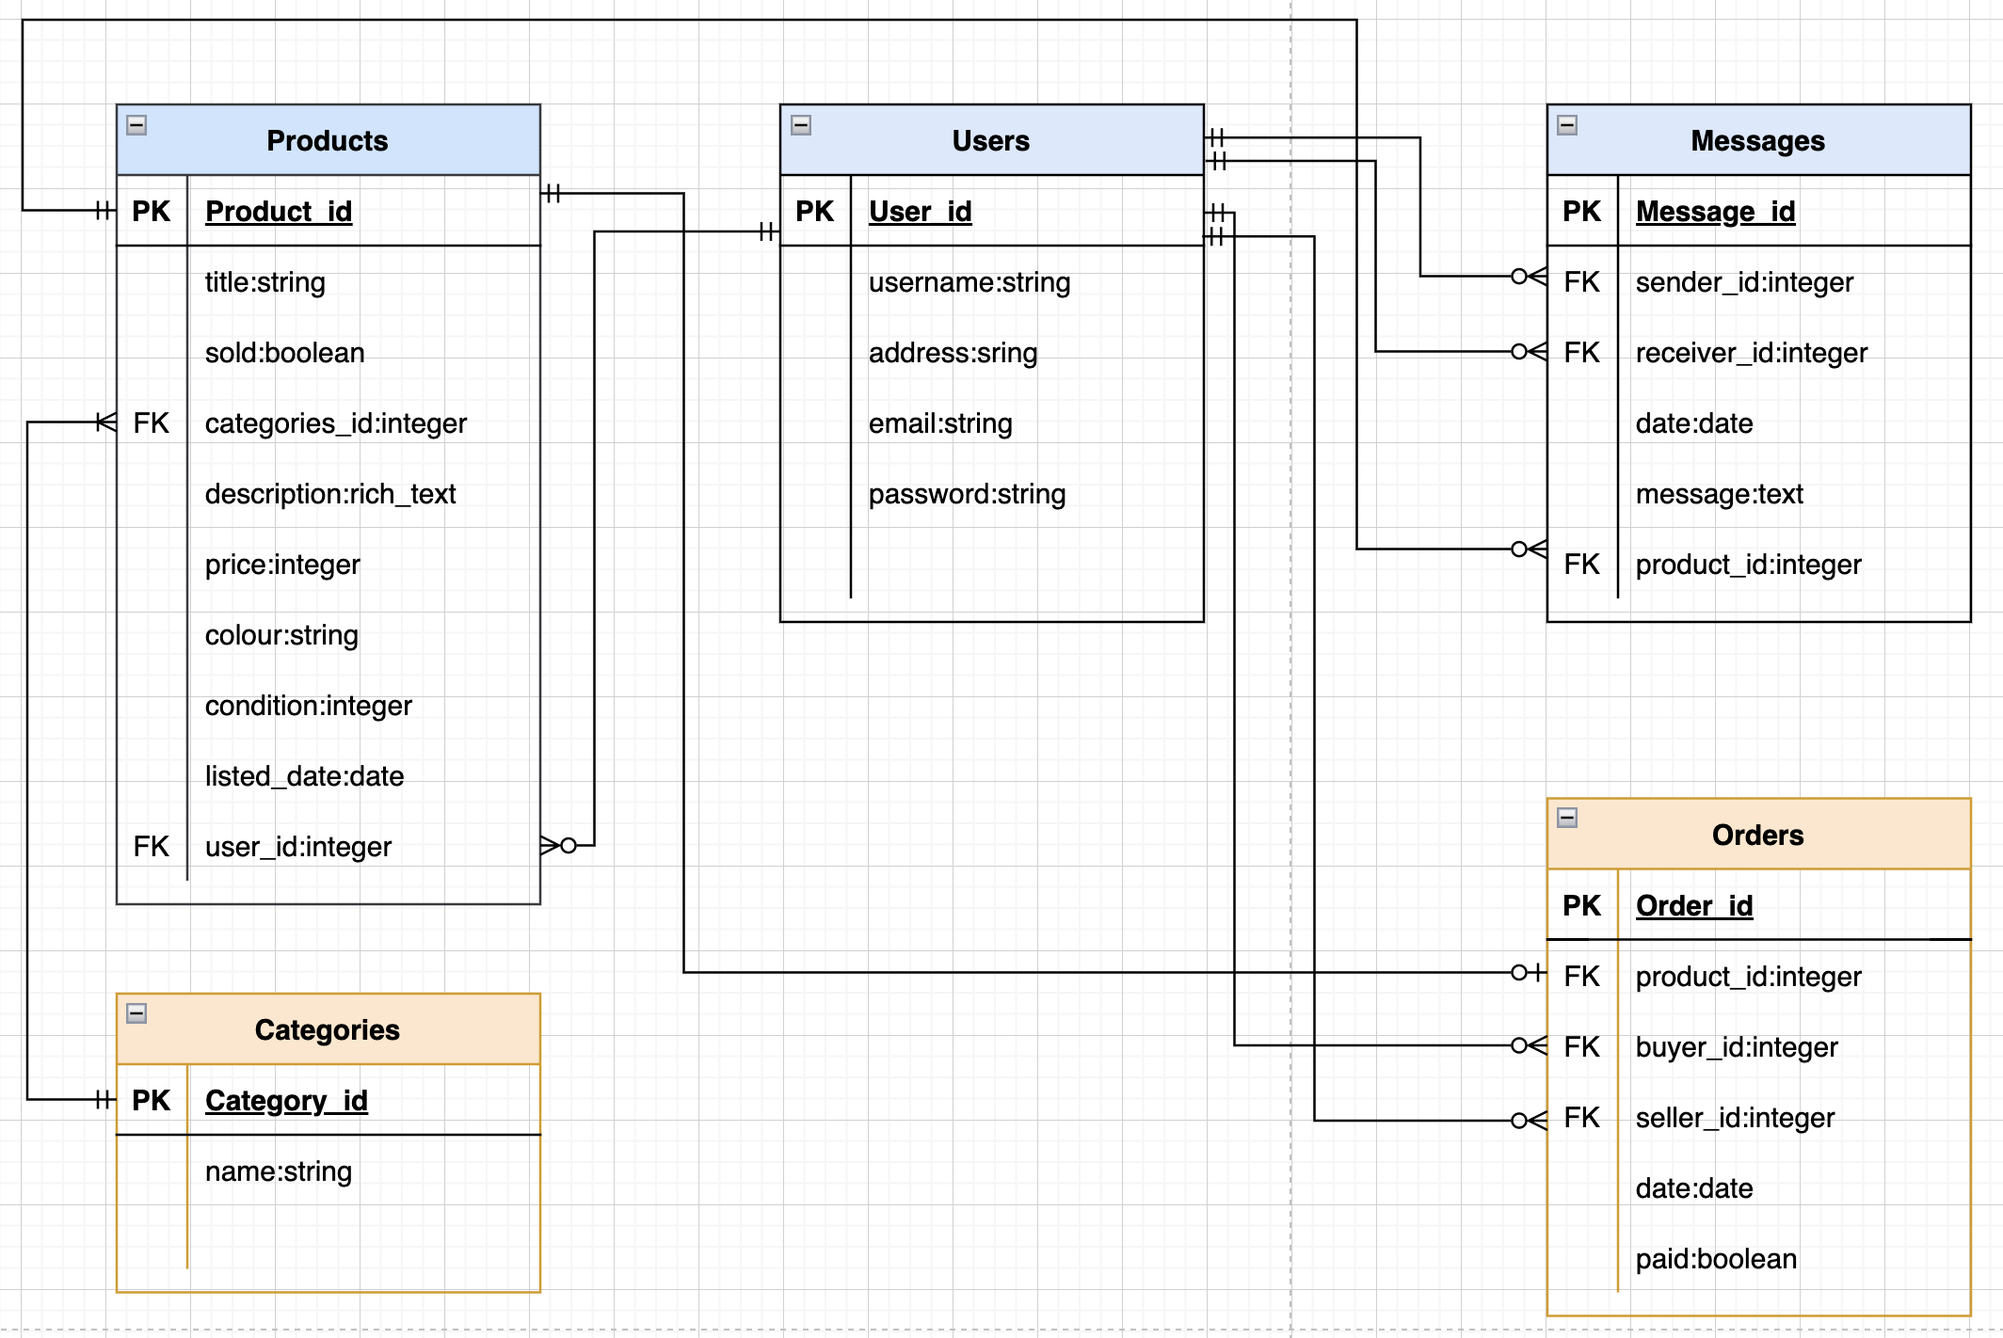
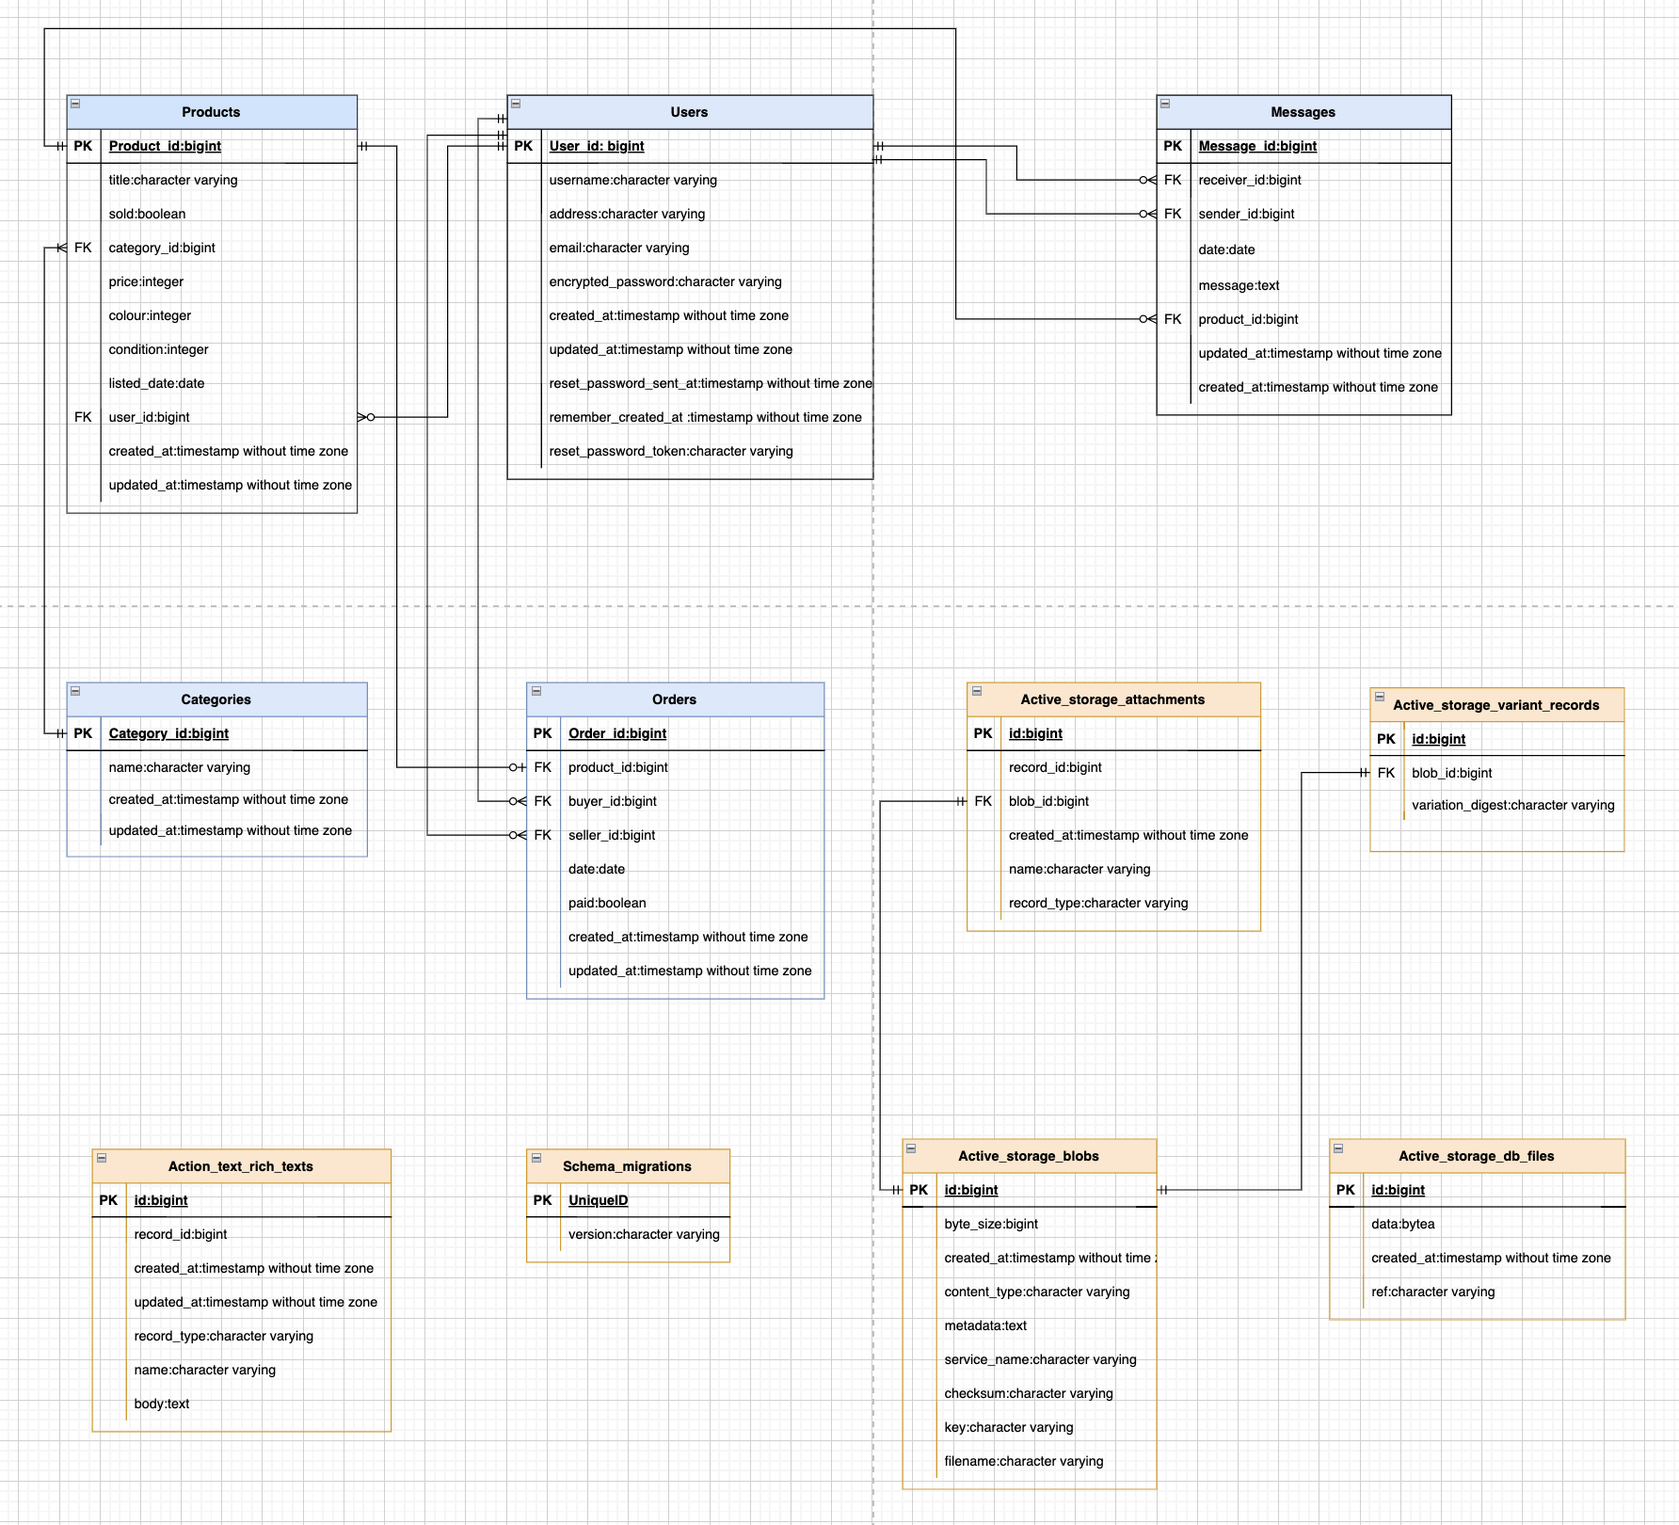
updated README

diff --git a/README.md b/README.md
@@ -1,8 +1,12 @@
 # Marketplace Project - Su Zhang
 
+## Explain how the MVC architecture and concept of inheritance impact the structure of your application and the entities within it
+(Precisely explains and shows understanding of how the MVC architecture and concept of inheritance impact the structure of your application and the entities within it)
+
+
 ## R7 Identification of the problem you are trying to solve by building this particular marketplace app.
 
-Society values the latest trends, the most fashionable clothing and the most stylish looks, and we rarely think about the environmental impact of our shopping habits. The desire to supply the latest fashion trends in abundance at low prices has led to the fashion industry becoming one of the world's major polluting industries. The industry is responsible for nearly 10% of greenhouse gas emissions, mainly due to the overproduction of clothing to meet consumer demand for "fast fashion". Things are cheap and throw away, with only about 20% of clothing Recycled or reused, while vast quantities of fashion products end up in landfills or incinerated, creating huge carbon emissions. This call for cheap clothing to keep up with changing trends has devastating effects on our climate.
+Society values the latest trends, the most fashionable clothing and the most stylish looks, and we rarely think about the environmental impact of our shopping habits. The desire to supply the latest fashion trends in abundance at low prices has led to the fashion industry becoming one of the world's major polluting industries. The industry is responsible for nearly 10% of greenhouse gas emissions, mainly due to the overproduction of clothing to meet consumer demand for "fast fashion". Things are cheap and throwaway, with only about 20% of clothing Recycled or reused, while vast quantities of fashion products end up in landfills or incinerated, creating huge carbon emissions. This call for cheap clothing to keep up with changing trends has devastating effects on our climate.
 
 ### References:
 
@@ -12,7 +16,7 @@ Society values the latest trends, the most fashionable clothing and the most sty
 
 ## R8 Why is it a problem that needs solving?
 
-Clothes have traditionally been made from materials derived from plants and animals, such as cotton, linen and leather, but today's clothing is increasingly likely to be made from materials derived from fossil fuel crude oil to make nylon and polyester and more synthetic fibers. These materials do not biodegrade, which means significant damage to the environment and devastating effects on human health and wildlife.
+Clothes have traditionally been made from materials derived from plants and animals, such as cotton, linen and leather, but today's clothing is increasingly likely to be made from materials derived from fossil fuel crude oil to make nylon and polyester and more synthetic fibres. These materials do not biodegrade, which means significant damage to the environment and devastating effects on human health and wildlife.
 At the same time, the high water consumption in the production of clothing, chemical pollution from dyeing and processing, and the disposal of large quantities of unsold or discarded clothing through incineration or landfilling can all cause serious harm to the environment. Therefore, in order to make our world a better place, this should be given enough attention.
 
 ### References:
@@ -38,19 +42,29 @@ At the same time, the high water consumption in the production of clothing, chem
 
 ### Purpose
 
-As the problem of global warming worsens, and the popularity of fast fashion brands. Little attention has been paid to the impact of the shopping habits that people develop to follow trends on our living environment. Therefore, I designed this two-sided marketplace, which is based on the protection of the environment to encourage everyone to recycle their own effective resources, sell or buy their own idle items, and develop shopping habits that are not wasteful, so as to protect our only and beautiful earth.
+As the problem of global warming worsens, and the popularity of fast fashion brands. Little attention has been paid to the impact of the shopping habits that people develop to follow trends in our living environment. Therefore, I designed this two-sided marketplace, which is based on the protection of the environment to encourage everyone to recycle their own effective resources, sell or buy their own old items, and develop shopping habits that are not wasteful, so as to protect our only and beautiful earth.
 
 ### Functionality / features
 
-Hamburger menu
+**Hamburger menu:** This website is responsive, which means it shows hamburger menu when the screen size is under 1200px instead of showing navbar.
 
-Searching bar
+**My orders:** This page will list all the products I have ordered, users will be able to view all their orders on this page.
 
-Messaging 
+**My products:** This page will list all of the products that I have posted. it is easy for users manage their products.
 
-Image uploading
+**Searching bar:** The search bar located on the top of the products and my products page allows users to search their interested products and also narrow down the range of searching.
 
-Rich text
+**Messaging:** As sellers, they will be able to check their messages from message section where located on the top of the website, which is the part of the navbar. as buyers, they will be able to contact the seller through message section, or click on the contact button where is in the product page.
+
+**Image uploading:** Users will be able to upload the image of the product which they want to sell. The images are stored in the postgres database. 
+
+**Edit and Add a product:** Users will be able to edit, delete, add new products to their website. 
+
+**Rich text:** Rich Text is a field type that enables users to create rich text content, It provides common text formatting options such as paragraphs, adding files, etc.
+
+**Authentication:** Divise 
+
+**Authorization:** Users have restrictions on what they can see and edit. 
 
 
 ### Sitemap
@@ -91,17 +105,18 @@ Reply message Page
 
 ### Target audience
 
-The target audience is all people who pay attention to and value global warming and environmental protection, as well as vintage lovers. In this vintage market, users can sell their idle items as sellers, and can also buy their favorite vintage items from other sellers. On this platform, people’s purchasing habit of recycling not only facilitates users to dispose of their restricted items, but also reduces the environmental pollution caused by a large amount of carbon emissions when incinerating discarded items.
+The target audience is all people who pay attention to and value global warming and environmental protection, as well as vintage lovers. In this vintage market app, users can sell their old items as sellers, and can also buy their favourite vintage items from other sellers. On this platform, people’s purchasing habit of recycling not only facilitates users to dispose of their old items but also reduces the environmental pollution caused by high carbon emissions when incinerating discarded items.
 
 ### Tech stack (e.g. html, css, deployment platform, etc)
-
+(discrib!!!!!)
 - Visual Studio Code
 - Ruby on Rails
 - Ruby
-- Postgresql- database
+- Postgresql- database in development and production
 - draw.io - Drawing ERD 
 - XMind - Sitemap
-- Heroku - Web hosting
+<!-- - Bootstrap - css framework  -->
+- Heroku - Website hosting
 - HTML - Layout
 - CSS -styling
 - Balsamiq Wireframes
@@ -117,22 +132,22 @@ User's perspective:
 
 Buyer's perspective:
 
-- As a buyer, I want to be able to have a search bar to search for related items, so that I can find items I'm interested in faster.
-- As a buyer, I want to have a section that shows all the items I've purchased，so that I can easily see all the information about the items I've purchased.
-- As a buyer, I want to have a Contact Seller section where I can message the seller, so that I can easily inquire about the specifics of the item I want to buy.
-- As a buyer, I want to know some terms that describe the condition of used goods without specific definitions, so that I can imagine the condition of the goods based on the conditions described on the website, in case I buy a dishonest product.
-- As a buyer, I want to have the function of purchasing goods and remind me that the purchase has been successful after purchase, so that I can ensure that I have successfully purchased the goods I like.
-- As a buyer, I want to be able to know which items have been sold out, so that I can make sure I don't keep buying that item.
+- As a buyer, I want to be able to search for related items, so that I can find items I'm interested in faster.
+- As a buyer, I want to see a list of the items I've purchased，so that I can easily see all the information about the items I've purchased.
+- As a buyer, I want to send messages to sellers, so that I can easily inquire about the specifics of the item I want to buy.
+- As a buyer, I want to understand the terms that describe the condition of used goods, so that I can know the condition of the goods before I purchase something.
+- As a buyer, I want to be able to purchase goods and confirm that the purchase has been successful, so that I can obtain the goods I like and be confident the purchase was successful.
+- As a buyer, I want to know which items are sold out, so that I don't try to buy them.
 - As a buyer, I want to see all product listings without registering or logging in, so that I can be sure if this is the type of site I'm looking for.
 
 Seller's perspective:
 
 - As a seller, I want to have a section that displays all of my products listing, so that I can easily see how all of my listings are selling.
-- As a seller, I want to have a section where I can view and reply messages, so that I can easily view all the inquiries sent to me by buyers and reply in a timely manner.
-- As a seller, I want the picture and link of the corresponding product can be attached to the buyer's inquiry message at the same time, so that I can clearly know which product the buyer is inquiring about and quickly find the information of the product.
+- As a seller, I want to have a section where I can view and reply to messages, so that I can easily view all the inquiries sent to me by buyers and reply in a timely manner.
+- As a seller, I want the picture and link of the corresponding product can be attached to the buyer's inquiry message, so that I can clearly know which product the buyer is inquiring about and quickly find the information for the product.
 - As a seller, I want to have an obvious and convenient button to add new items, so that I can add items that I want to sell at any time.
 - As a seller, I want to be able to edit my products, so that I can update or delete the products I list at any time, and also buyers can get the latest product information.
-- As a seller, I want to be able to upload images, describe items condition and information, so that buyer can clearly know the detailed condition of the product.
+- As a seller, I want to be able to upload images and describe items' conditions, so that buyers can clearly know the detailed condition of the product.
 
 ---
 
@@ -182,14 +197,30 @@ Reply message Page
 
 ## R16 Detail any third party services that your app will use
 
-Heroku (Web hosting service) - Heroku was used to host my website. It is a Platform as a Service (PaaS) and was chosen because it allows for both front end and back end to be hosted on their platform.
+Heroku (Web hosting service) - Heroku is a Platform as a Service (PaaS) which provides a set of capabilities that allows me to deploy, manage and host my website. I was chosen because it no need to understand server configuration, network management, or tune the latest version of the database.
 
 Github
-Using Github to manage service for git source control repositories, and also to trigger automatic deployment through Heroku.
+I was using Github to host my source code and keep track of the various changes, it makes esaier to reviewing, improving, and delivering new features and  making a better workflow. And also to deploy code through Github to Heroku.
+
+Devise: I used Devise gem to generated a User model in rails as an authentication system. Because, Devise take care of all the controllers necessary for User, like log in and out, email, password for registration. And also allows me to add username section which is very flexible and easy to setup. 
+
 ---
 
 ## R17 Describe your projects models in terms of the relationships (active record associations) they have with each other
 
+has many 
+belongs to
+A user if set up under the role of a 'restaurant' is able to create many restaurants (has_many). This is to cover scenarios where one user login has multiple relationships.
+
+A restaurant can only belong to one user (belongs_to). This is to ensure that a user who did not create the resturant cannot edit or delete a restaurant created by another user. All restaurants can view other restaurants listed on the app, in order to be able to view what customers can view on the index.
+
+A restaurant can upload an image attached to the listing.
+
+A user can have many sign in's as a user can check into many restaurants on the app (has_many). This enables the user to view a list of all their CheckIn's (i.e. where they have been) on the app. The restaurant the user CheckedIn can be viewed on the index page.
+
+A user can provide many feedbacks to the restaurant (has_many). Each feedback is linked to the user ID and restaurant ID ensuring that the correct customer and restaurant user can view the app.
+
+A user can upload an image attached to the feedback. This includes scenarios where they want to include a picture of the food, reciept, etc.
 ---
 
 ## R18 Discuss the database relations to be implemented in your application
@@ -199,7 +230,7 @@ Using Github to manage service for git source control repositories, and also to 
 
 ## R19 Provide your database schema design
 
-Rich texts
+Active text rich text table
 
 ```rb
   create_table "action_text_rich_texts", force: :cascade do |t|
@@ -213,7 +244,7 @@ Rich texts
   end
 ```
 
-Active storage attachments
+Active storage attachments table
 
 ```rb
 create_table "active_storage_attachments", force: :cascade do |t|
@@ -227,7 +258,7 @@ create_table "active_storage_attachments", force: :cascade do |t|
   end
 ```
 
-Active storage blobs
+Active storage blobs table
 
 ```rb
  create_table "active_storage_blobs", force: :cascade do |t|
@@ -243,7 +274,7 @@ Active storage blobs
   end
 ```
 
-Active storage database files
+Active storage database files (used for image uploading)
 
 ```rb
 create_table "active_storage_db_files", force: :cascade do |t|
@@ -254,7 +285,7 @@ create_table "active_storage_db_files", force: :cascade do |t|
   end
 ```
 
-Active storage records
+Active storage variant records (for edits to images)
 
 ```rb
  create_table "active_storage_variant_records", force: :cascade do |t|
@@ -348,7 +379,7 @@ create_table "users", force: :cascade do |t|
 Foreign Keys
 
 ```rb
-add_foreign_key "active_storage_attachments", "active_storage_blobs", column: "blob_id"
+  add_foreign_key "active_storage_attachments", "active_storage_blobs", column: "blob_id"
   add_foreign_key "active_storage_variant_records", "active_storage_blobs", column: "blob_id"
   add_foreign_key "messages", "products"
   add_foreign_key "messages", "users", column: "receiver_id"
@@ -364,27 +395,29 @@ add_foreign_key "active_storage_attachments", "active_storage_blobs", column: "b
 
 ## R20 Describe the way tasks are allocated and tracked in your project
 
-I was using Trello board to allocate and track my project, I have 5 columns to consider, they are Optional features, to do, doing, today and done. 
+The tool I used to manage my project was Trello. Trello is a free visual organisation tool that uses a Kanban workflow style to track tasks and manage workflows.
 
+I used a Trello board to allocate and track my project, the board was arranged in 5 columns, they were:
 
-Optional features:
-The Optional features stores the functions I want to implement, but it is not mandatory requirement. 
+- Optional features - records the tasks I want to implement, but are not mandatory requirements
+- To do - records the tasks that must be done are in the To do list column
+- Doing - records the tasks that I am doing, but are not necessarily being done today
+- Today - records the tasks that have to be completed today
+- Done - records completed tasks, to make sure I've done all the tasks
 
-To do
-The tasks that must be done will be in the To do list, selecting some tasks I want to complete today or the tasks that will be completed move to the Today and Doing lists. Once I completed all the tasks from this column, I can move another ticket from Optional features to this column.
+### Task properties
 
-Doing
-The doing list will store the tasks that I will do, but it doesn't have to be done today, if the list in Today list is empty, I can select the task from this list and move it to the today list.
-
-Today
-The today table stores the tasks have to be completed today. Every day，I select a few tasks from the Doing list to this list.
-
-Done
-Done list stores completed tasks，to make sure I've done all the tasks.
-
-And also, each ticket has a label and story points. I created 7 labels to organise each ticket, they are presentation, database, features, blocked, slides, documentation. The story points categorize difficulty levels. The Trello board screenshots and the link are shown below.
+Each task has a label and story points. I created 7 labels to organise each ticket, they are presentation, database, features, blocked, slides and documentation. The story points categorize difficulty levels and use the Fibonacci sequence. The Trello board screenshots and the link are shown below.
 
 [Trello Board Link](https://trello.com/b/D1Iluvdr/marketpalce)
+
+### My process
+
+Every day I select a few tasks from the Doing list that I want to complete and move them to the Today list. This helps me focus on what needs to be done right now. Once tasks are complete, I move them to the Done list. If I become blocked on a task I can park it in Doing and focus on a different task in the Today list.
+
+Once the Today list is empty I select more tasks from the Doing list and move them to the Today list. 
+
+If all the To Do tasks are completed, I will move another ticket from the Optional features list over to the Doing list. 
 
 ### Trello board Screenshot
 
